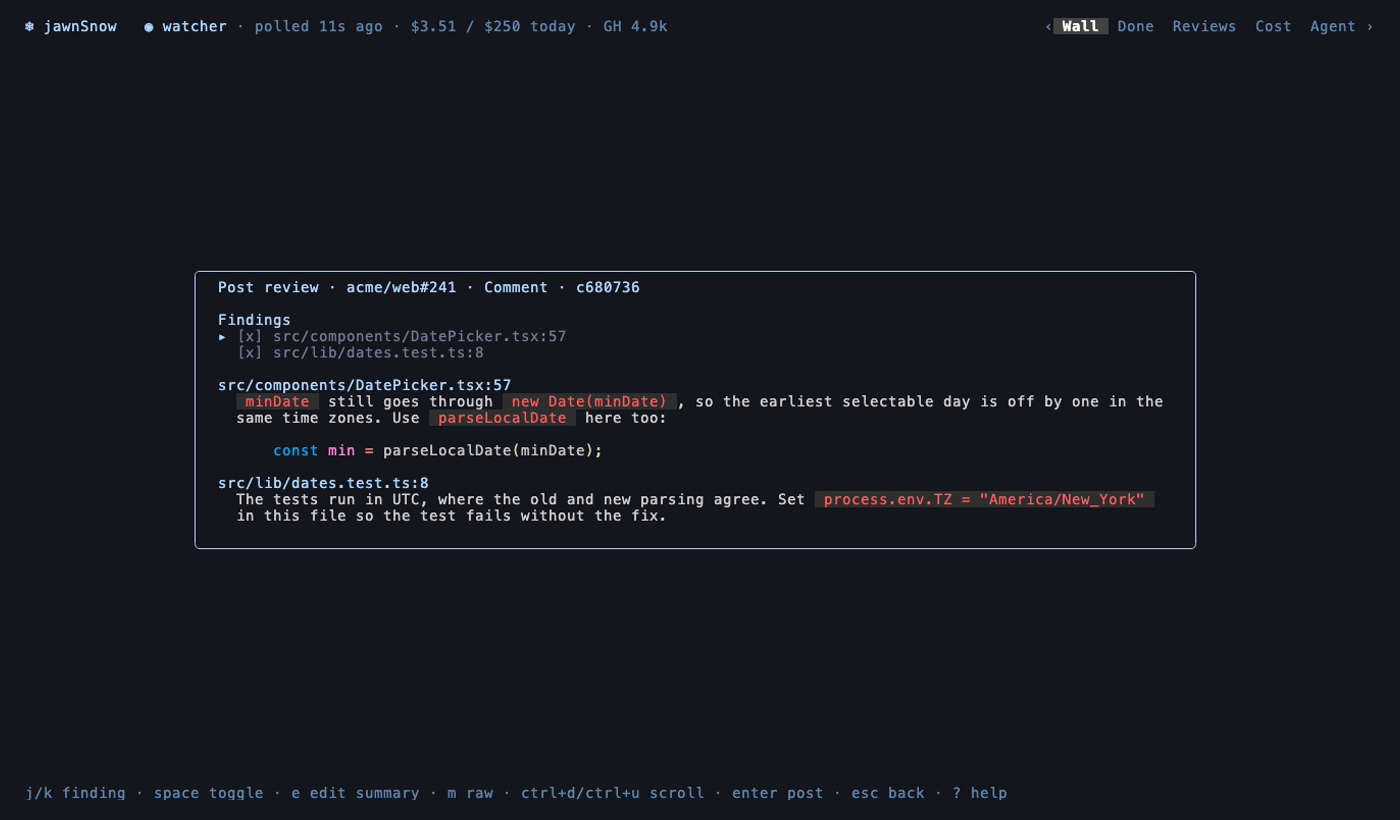
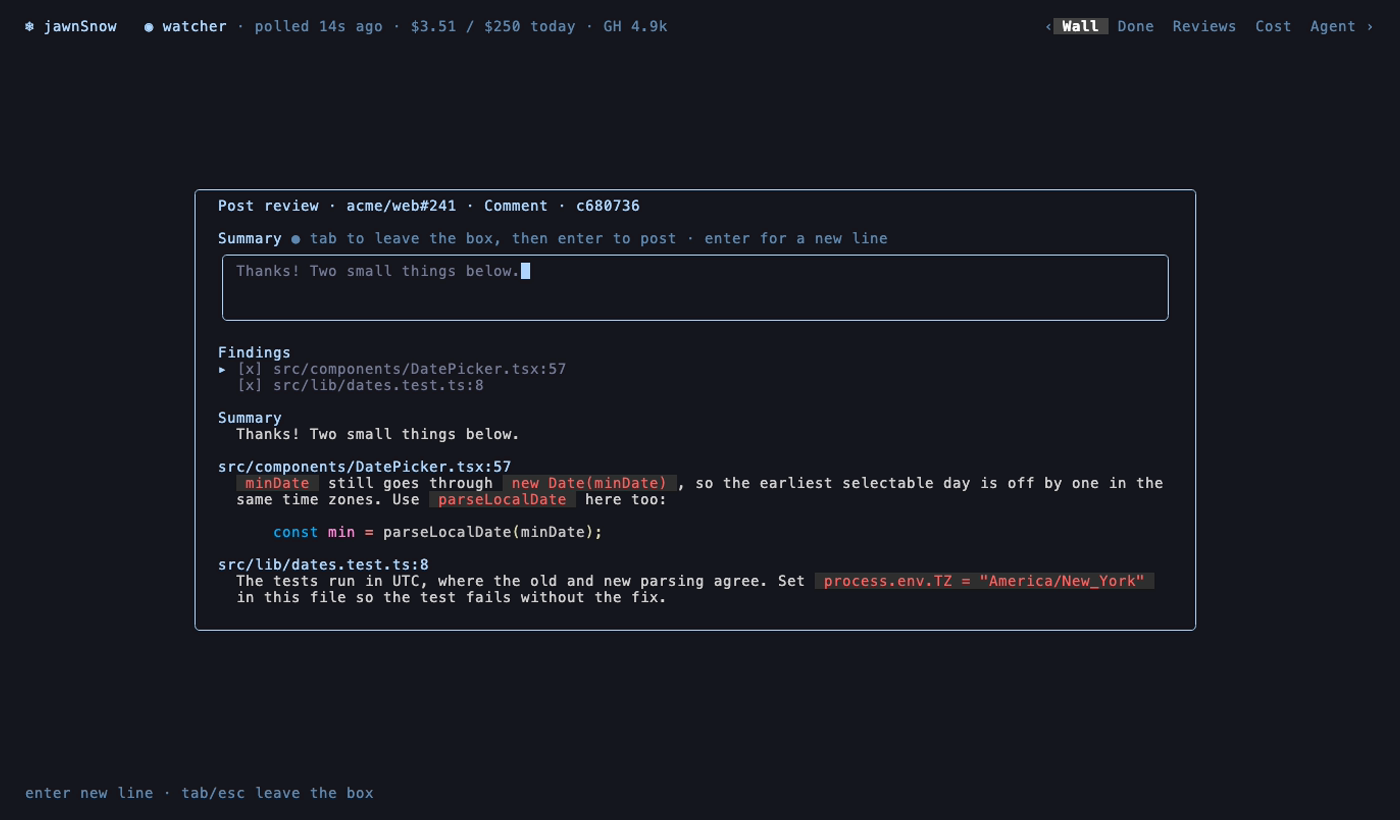
docs(vhs): type a summary in the post preview and re-record
The preview now opens in its summary box, so the tape types a summary
there before the screenshot and presses esc once more to leave the box.
The screenshots also pick up the drawer's selection fill, the faint
Wall beside a focused drawer, and the new heading hints.

diff --git a/docs/development.md b/docs/development.md
@@ -64,7 +64,7 @@ The README's GIF and the screenshots in `docs/assets/` are recorded from it with
 vhs docs/demo/demo.tape
 ```
 
-Run it from the repo root. The tape builds `cmd/snowdemo` to `/tmp/snowdemo`, starts it, pauses a second for the Wall, and then types keys with fixed pauses between them, so it depends on the demo's card order (it moves with `j`, `j`, `l`, `k` to reach a reviewed PR) and on `enter` focusing the drawer it opens, so drawer keys such as `n` and `P` follow it directly, with `tab` going back to the Wall. It also depends on the demo review (1.5 seconds, `internal/demo/reviewer.go`) finishing before it presses `P`; if `P` comes too soon it opens nothing, and the steps after it go wrong too. If you change the demo data, those keys or the tape's pauses, check the recording. After the post preview it goes back to the Wall and down three cards (`j`, `j`, `j`) to acme/api#398, the demo PR with a review of yours, for the Activity tab. It writes `docs/assets/demo.gif`, `wall.png`, `drawer.png`, `drawer-checks.png`, `post-preview.png`, `drawer-activity.png` and `cost.png`.
+Run it from the repo root. The tape builds `cmd/snowdemo` to `/tmp/snowdemo`, starts it, pauses a second for the Wall, and then types keys with fixed pauses between them, so it depends on the demo's card order (it moves with `j`, `j`, `l`, `k` to reach a reviewed PR) and on `enter` focusing the drawer it opens, so drawer keys such as `n` and `P` follow it directly, with `tab` going back to the Wall. It also depends on the demo review (1.5 seconds, `internal/demo/reviewer.go`) finishing before it presses `P`; if `P` comes too soon it opens nothing, and the steps after it go wrong too. If you change the demo data, those keys or the tape's pauses, check the recording. In the post preview it types a summary into the box the preview opens on, then `esc` leaves the box and two more back out. After that it goes back to the Wall and down three cards (`j`, `j`, `j`) to acme/api#398, the demo PR with a review of yours, for the Activity tab. It writes `docs/assets/demo.gif`, `wall.png`, `drawer.png`, `drawer-checks.png`, `post-preview.png`, `drawer-activity.png` and `cost.png`.
 
 ## Credits
 
